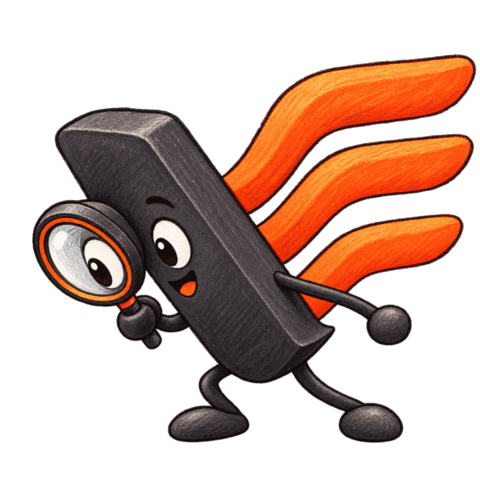
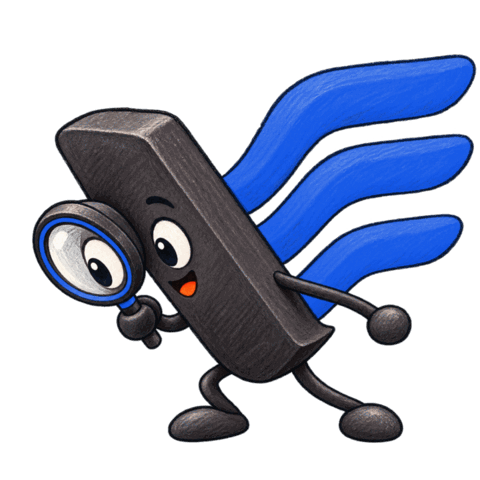
Blue Ask Votic mascot and a jump for suggestion chips
- The magnifying-glass mascot on the Ask Votic screen now uses the brand blue
  instead of orange (its tongue stays red).
- Tapping a suggestion ("Summarize this document", "Find key points", ...)
  makes it hop in one arc into the question box, with a small crouch and
  landing, instead of zigzagging down. It also uses the readable accent color
  in dark mode. Reduce Motion still skips the animation.

Claude-Session: https://claude.ai/code/session_014TwKYhE6RLr1ziCe4WW1J6

Changed region(s): [[0.4375, 0.0938, 1.0, 0.6875], [0.0625, 0.4375, 0.2812, 0.6562], [0.3438, 0.5312, 0.375, 0.5625]]

diff --git a/apps/mobile/app/assistant.tsx b/apps/mobile/app/assistant.tsx
@@ -66,6 +66,9 @@ function answerNoteStamp() {
   const now = Date.now();
   return { now, id: "votic-note-" + now + "-" + Math.random().toString(36).slice(2, 7) };
 }
+/** How high a suggestion jumps on its way into the question box. */
+const JUMP_HEIGHT = 72;
+
 export function AskVotic({ embedded = false }: { embedded?: boolean }) {
   const { theme } = useVoticTheme();
   const { explanationStyle } = useVoticPurpose();
@@ -178,8 +181,8 @@ export function AskVotic({ embedded = false }: { embedded?: boolean }) {
           requestAnimationFrame(() =>
             Animated.timing(flightProgress, {
               toValue: 1,
-              duration: 1050,
-              easing: Easing.inOut(Easing.cubic),
+              duration: 620,
+              easing: Easing.inOut(Easing.quad),
               useNativeDriver: true,
             }).start(() => {
               setFlight(null);
@@ -598,39 +601,53 @@ export function AskVotic({ embedded = false }: { embedded?: boolean }) {
                   left: flight.x,
                   top: flight.y,
                   opacity: flightProgress.interpolate({
-                    inputRange: [0, 0.88, 1],
-                    outputRange: [1, 1, 0.12],
+                    inputRange: [0, 0.92, 1],
+                    outputRange: [1, 1, 0.4],
                   }),
+                  // One jump: a quick crouch, an arc up and over, and a small landing squash in the box.
                   transform: [
                     {
                       translateX: flightProgress.interpolate({
-                        inputRange: [0, 0.2, 0.45, 0.72, 1],
-                        outputRange: [0, 64, -28, 52, flight.dx],
+                        inputRange: [0, 0.12, 1],
+                        outputRange: [0, 0, flight.dx],
                       }),
                     },
                     {
                       translateY: flightProgress.interpolate({
-                        inputRange: [0, 0.2, 0.45, 0.72, 1],
-                        outputRange: [0, flight.dy * 0.16, flight.dy * 0.43, flight.dy * 0.72, flight.dy],
+                        inputRange: [0, 0.12, 0.34, 0.56, 0.78, 1],
+                        outputRange: [
+                          0,
+                          4,
+                          flight.dy * 0.25 - JUMP_HEIGHT * 0.75,
+                          flight.dy * 0.5 - JUMP_HEIGHT,
+                          flight.dy * 0.75 - JUMP_HEIGHT * 0.75,
+                          flight.dy,
+                        ],
                       }),
                     },
                     {
                       rotate: flightProgress.interpolate({
-                        inputRange: [0, 0.2, 0.45, 0.72, 1],
-                        outputRange: ["0deg", "4deg", "-4deg", "3deg", "0deg"],
+                        inputRange: [0, 0.12, 0.5, 1],
+                        outputRange: ["0deg", "0deg", "-5deg", "0deg"],
                       }),
                     },
                     {
-                      scale: flightProgress.interpolate({
-                        inputRange: [0, 0.75, 1],
-                        outputRange: [1, 0.96, 0.9],
+                      scaleY: flightProgress.interpolate({
+                        inputRange: [0, 0.12, 0.3, 0.92, 1],
+                        outputRange: [1, 0.85, 1.06, 1, 0.88],
+                      }),
+                    },
+                    {
+                      scaleX: flightProgress.interpolate({
+                        inputRange: [0, 0.12, 0.3, 0.92, 1],
+                        outputRange: [1, 1.08, 0.96, 1, 1.06],
                       }),
                     },
                   ],
                 },
               ]}
             >
-              <Text numberOfLines={1} style={[s.flightText, { color: theme.accent }]}>
+              <Text numberOfLines={1} style={[s.flightText, { color: theme.accentText }]}>
                 {flight.label}
               </Text>
             </Animated.View>
